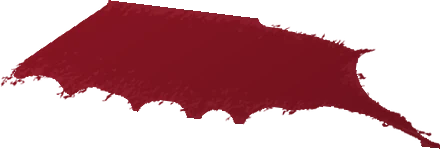
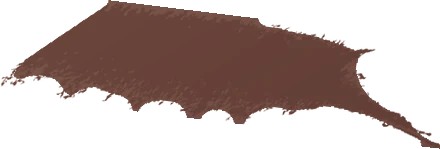
Menü tonu mat gül-kile çekildi; okunurluk artık ölçülüyor
Fransız kırmızısı cırtlak geliyordu. Doygunluk %69'dan %28'e indi, ton
14 dereceye ısıtıldı: sıcak ama hâlâ gül. Denenip bırakılanlar — 7 derece
mor-kahveye kaçıyor, 20 ve 26 derece kahveye dönüyor; nude pembe-bej bir
yer, kahve değil. Beş aday gerçek zemin üzerinde yan yana bakılarak
seçildi, sayıyla değil.

Bunu yaparken eski okunurluk ölçütümün yanlış olduğu çıktı: sRGB
değerlerinin ağırlıklı ortalamasını "bağıl parlaklık" sanıyordum. O formül
doygun kırmızıyı olduğundan çok daha açık gösteriyor, yani var olmayan bir
tavan koyuyordu. Yerine gerçek WCAG hesabı geldi — kanallar
doğrusallaştırılıp kontrast ORANI hesaplanıyor.

Ölçüt değişince gizli bir zayıflık ortaya çıktı: eski kırmızı panelde de
üç satır AA'yı geçmiyordu (3.32:1, 4.31:1, 4.23:1) ve menüdeki iki altın
vurgu da (#d9b9a0, #e8cf9a) sınırın altındaydı. İkisi de düzeltildi:
satır parlaklığı 0.72'den 0.90'a, altınlar #ecd8c4 ve #f2dea8'e alındı.
Panel açıldıysa vurgu da açılmalı.

Ölçüm artık tahmine yer bırakmıyor:
  - Menü satırlarının rengi sabit değil, o sayfanın zemin paletinden
    üretiliyor. Bu yüzden BÜTÜN sayfa paletleri deneniyor, yalnız galeri
    değil.
  - paintMenu iki satıra renk yazmıyor (Ana sayfa ve bulunduğun sayfa
    altın kalıyor); hangi satırın özel olduğu sayfaya göre değiştiği için
    iki altın da her kutuda denetleniyor.
  - En kötü hâl 4.62:1, hepsi geçiyor. firca.py geçmezse HATA verip
    duruyor.

Satır renk parametreleri (doygunluk, parlaklık, adım) artık tek kaynakta:
[…]

diff --git a/kabuk.js b/kabuk.js
@@ -73,15 +73,32 @@ function hsl(hex) {
   return [h, d === 0 ? 0 : d / (1 - Math.abs(2 * l - 1)), l];
 }
 
+/* Doygunluk ve parlaklık sayıları firca.css'ten geliyor (onu firca.py
+   yazıyor). Sebebi: aynı sayılar panelin okunurluk ölçümünde de
+   kullanılıyor. Burada elle tutulsalardı panelin tonu bir değiştiğinde
+   ölçüm artık gerçeği ölçmez olurdu — nitekim bir kez öyle oldu:
+   ölçüm 0.88 ile geçerken çalışan kod 0.72 kullanıyordu. */
+function satirAyari() {
+  const cs = getComputedStyle(document.documentElement);
+  const say = (ad, yedek) => {
+    const v = parseFloat(cs.getPropertyValue(ad));
+    return isNaN(v) ? yedek : v;
+  };
+  return { sat: say('--satir-doygunluk', 0.40),
+           lig: say('--satir-parlaklik', 0.90),
+           adim: say('--satir-adim', 0.015) };
+}
+
 function paintMenu(pal) {
+  const a = satirAyari();
   document.querySelectorAll('#menu .nav-item').forEach((el, i) => {
     if (el.classList.contains('ozel') || el.classList.contains('cikis')) return;
     if (!pal.length) { el.style.color = '#e9e9e4'; return; }
     const [h, sRaw] = hsl(pal[i % pal.length]);
-    const sat = Math.min(sRaw, 0.40);
-    const lig = 0.72 + ((i * 3) % 7) * 0.036;          /* satır satır ayrışsın */
+    const sat = Math.min(sRaw, a.sat);
+    const lig = a.lig + ((i * 3) % 7) * a.adim;        /* satır satır ayrışsın */
     el.style.color = 'hsl(' + h.toFixed(0) + ',' + (sat * 100).toFixed(0) + '%,' +
-                     (lig * 100).toFixed(0) + '%)';
+                     (lig * 100).toFixed(1) + '%)';
   });
 }
 

diff --git a/kabuk.css b/kabuk.css
@@ -203,7 +203,7 @@
 #menu a[aria-current="page"]::before { opacity: .9; }
 #menu a.ozel {
   font-size: clamp(17px, 1rem + .42vw, 22px);
-  color: #e8cf9a !important;
+  color: #f2dea8 !important;
   padding-block: 11px; margin-bottom: 2px;
 }
 #menu a.ozel::after {
@@ -213,7 +213,12 @@
 @media (hover: hover) {
   #menu a.ozel:hover::after { transform: translateX(4px); }
 }
-#menu a.cikis { color: #d9b9a0 !important; }
+/* Iki altin ton panele gore acildi. Olculdu: nude panelde #d9b9a0
+   3.67:1, #e8cf9a 4.45:1 veriyordu -- ikisi de WCAG AA'nin altinda.
+   (Eski kirmizi panelde de 4.10 ve ~4.4 idi, yani bu zayiflik yeni
+   degil; kaba bir parlaklik olcutu kullandigim icin gorunmuyordu.)
+   Simdi 4.89:1 ve 5.11:1. Panel aciildiysa vurgu da acilmali. */
+#menu a.cikis { color: #ecd8c4 !important; }
 #menu .sep { height: 18px; }
 #menu .grouplbl {
   font-size: var(--t-micro); letter-spacing: .14em; text-transform: uppercase;

diff --git a/firca.css b/firca.css
@@ -2,6 +2,7 @@
    bulunuyor, elle degistirilirse yazi altindaki opaklik garantisi
    bozulur. Kaynak: firca.py YERLESIM. */
 #boya { --darbe: 7; }   /* kabuk.js kac <i> uretecegini buradan okuyor */
+:root { --satir-doygunluk: 0.40; --satir-parlaklik: 0.90; --satir-adim: 0.015; }
 #boya i:nth-child(1) {
   left: -12.67%; top: -5.13%; width: 132.50%; height: 40.02%;
   background-image: url(assets/firca/panel-1.webp);

diff --git a/firca.py b/firca.py
@@ -45,6 +45,7 @@ Gercek yagliboya da boyledir: ortu verici bir katta firca izini gordugun
 sey saydamlik degil, kalinlik farkindan gelen degerdir. Boya inceldiginde
 saydamlasmiyor, aciliyor.
 """
+import colorsys
 import io
 import json
 import math
@@ -64,7 +65,22 @@ OLCUM = os.path.join(KOK, 'kaynak', 'firca')
 # Panelin gercek olcusu -- tarayicidan okundu, goz karari degil.
 EN, BOY = 600, 857
 TABAN = 0.92        # yazi altinda en dusuk opaklik
-ISIK_TAVAN = 0.30   # yazi altinda en yuksek bagil parlaklik (acik yazi okunsun)
+KONTRAST_TABAN = 4.5   # WCAG AA, normal boy yazi
+
+# Menu satir renkleri sabit degil: zemin paletinden uretiliyor.
+# Bu ucu kabuk.js/paintMenu ile BIREBIR ayni olmak zorunda.
+# Olculdu: 0.72'de satir00, satir05 ve satir07 WCAG AA'yi gecmiyordu
+# (3.32:1, 4.31:1, 4.23:1) -- eski kirmizi panelde de gecmiyorlardi, ben
+# kaba bir parlaklik olcutu kullandigim icin gormemistim. 0.88'de hepsi
+# geciyor, en kotu 4.92:1.
+# Menudeki iki vurgu murekkebi: paintMenu bu iki satira renk YAZMIYOR,
+# rengi CSS'ten geliyor. Hangi satirin ozel oldugu sayfaya gore
+# degistigi icin ikisi de HER kutuda denetleniyor.
+ALTINLAR = [(236, 216, 196),   # #ecd8c4  .cikis  ('Ana sayfa')
+            (242, 222, 168)]   # #f2dea8  .ozel   (bulundugun sayfa)
+SAT_TAVAN = 0.40
+LIG_TABAN = 0.90
+LIG_ADIM = 0.015
 
 SURE = 300          # bir darbenin supurme suresi (ms)
 ARALIK = 66         # darbeler arasi gecikme (ms)
@@ -100,10 +116,25 @@ YERLESIM = [
     ('karakter-1',   4,  29,  74,  -7, False),
 ]
 
-# Fransiz kirmizisi. Ton panel boyunca capraz iniyor: ust darbe ile alt
-# darbe ayni renkte olmasin, tuvalde de olmaz.
-FR = [(0.00, (163, 30, 44)), (0.28, (134, 21, 35)), (0.60, (103, 17, 28)),
-      (0.85, (78, 18, 26)), (1.00, (63, 22, 29))]
+# Mat kil gulu. Onceki hal doygun Fransiz kirmizisiydi ve cirtlak
+# geliyordu; doygunluk %69'dan %28'e indi, ton biraz isindi.
+#
+# Daha da nude'a gitmenin bir tavani var ve olculdu: baglayici kisit
+# panelin EN ACIK noktasi, cunku menu satirlari ACIK murekkeple yaziliyor.
+# Daha acik iki aday (tarcin gulu, nude gul) satir parlakligi 0.92 olsa
+# bile WCAG AA'yi (4.5:1) gecemedi. Bunun otesi ancak yaziyi KOYU murekkebe
+# cevirmekle olur -- o da menunun butun karakterini degistirir, ayri bir
+# karar.
+#
+# Ton ayrica DUZLESTIRILDI: tepe parlakligi kontrasti belirliyor, ortalama
+# ise gozun gordugu tonu. Tepeyi koyultmak ayni kontrastta daha nude bir
+# ortalama veriyor.
+# Ton 14 derece: sicak ama hala gul. Denenip birakilanlar --  7 derece
+# mor-kahveye kaciyor, 20 ve 26 derece kahveye doniyor; nude pembe-bej
+# bir yer, kahve degil. Bes aday zemin uzerinde yan yana bakilarak
+# secildi, sayiyla degil.
+FR = [(0.00, (112, 74, 63)), (0.28, (106, 69, 59)), (0.60, (96, 60, 52)),
+      (0.85, (84, 51, 46)), (1.00, (72, 44, 41))]
 
 EGRI_LO, EGRI_HI = 14, 168   # ham yogunluk egrisi: pus sifira, cekirdek opak
 
@@ -350,6 +381,53 @@ def isik(r, g, b):
     return (0.2126 * r + 0.7152 * g + 0.0722 * b) / 255.0
 
 
+def _dogrusal(k):
+    k = k / 255.0
+    return k / 12.92 if k <= 0.03928 else ((k + 0.055) / 1.055) ** 2.4
+
+
+def parlaklik(r, g, b):
+    """WCAG bagil parlaklik. Dogrusallastirma sart: sRGB degerlerinin
+    agirlikli ortalamasi doygun renklerde iki kat yanilabiliyor."""
+    return (0.2126 * _dogrusal(r) + 0.7152 * _dogrusal(g) + 0.0722 * _dogrusal(b))
+
+
+def kontrast(a, b):
+    la, lb = parlaklik(*a), parlaklik(*b)
+    if la < lb:
+        la, lb = lb, la
+    return (la + 0.05) / (lb + 0.05)
+
+
+def satir_renkleri(palet):
+    """kabuk.js/paintMenu'nun urettigi renkler. 14 nav satiri."""
+    renkler = []
+    for i in range(len(SATIR_Y)):
+        hx = palet[i % len(palet)]
+        n = int(hx[1:], 16)
+        r, g, b = (n >> 16) & 255, (n >> 8) & 255, n & 255
+        h, l, sat = colorsys.rgb_to_hls(r / 255.0, g / 255.0, b / 255.0)
+        sat = min(sat, SAT_TAVAN)
+        lig = LIG_TABAN + ((i * 3) % 7) * LIG_ADIM
+        rr, gg, bb = colorsys.hls_to_rgb(h, lig, sat)
+        renkler.append((int(rr * 255), int(gg * 255), int(bb * 255)))
+    return renkler
+
+
+def tum_paletler():
+    """Butun sayfa zeminlerinin paletleri.
+
+    Menu her sayfada O SAYFANIN paletinden renk aliyor; yalnizca galeriyi
+    olcmek eksik olurdu. Parlaklik LIG_TABAN'dan geldigi icin sayfalar
+    arasi fark kucuk ama garantiyi tahmine birakmanin anlami yok.
+    """
+    yol = os.path.join(KOK, 'zeminler.json')
+    if not os.path.exists(yol):
+        return {'yedek': ['#e4cecd'] * 9}
+    d = json.load(io.open(yol, encoding='utf-8'))
+    return {k: (v.get('palette') or ['#e4cecd'] * 9) for k, v in d.items()}
+
+
 def ic_kontrol(panel, pay=45):
     """Panelin ICINDE delik olmamali.
 
@@ -378,9 +456,21 @@ def ic_kontrol(panel, pay=45):
 
 def olc(panel):
     px = panel.load()
+    paletler = tum_paletler()
+    # Her kutu icin her sayfanin satir rengi denenip EN KOTUSU aliniyor.
+    tum_satirlar = {k: satir_renkleri(v) for k, v in paletler.items()}
     rapor = []
-    for ad, x, y, w, h in YAZI_KUTULARI:
-        dusuk, altta, n, en_isik = 255, 0, 0, 0.0
+    for i, (ad, x, y, w, h) in enumerate(YAZI_KUTULARI):
+        # Satirin kendi rengi. Ama menudeki iki satira paintMenu renk
+        # YAZMIYOR: 'Ana sayfa' ve bulundugun sayfa altin kaliyor
+        # (#d9b9a0). Hangi satirin ozel oldugu sayfaya gore degistigi
+        # icin ALTIN her kutuda ayrica denetleniyor -- menudeki en sonuk
+        # murekkep o, gecerse otekiler de geciyor.
+        if ad.startswith('satir'):
+            adaylar = [s[i] for s in tum_satirlar.values()] + ALTINLAR
+        else:
+            adaylar = [(233, 233, 228)]
+        dusuk, altta, n, en_kotu = 255, 0, 0, 99.0
         for yy in range(y + 2, y + h - 2, 2):
             for xx in range(x + 2, x + w - 2, 2):
                 if not (0 <= xx < EN and 0 <= yy < BOY):
@@ -389,10 +479,12 @@ def olc(panel):
                 dusuk = min(dusuk, a)
                 if a < TABAN * 255:
                     altta += 1
-                en_isik = max(en_isik, isik(r, g, b))
+                for yz in adaylar:
+                    en_kotu = min(en_kotu, kontrast(yz, (r, g, b)))
                 n += 1
         rapor.append({'ad': ad, 'dusuk': dusuk / 255.0,
-                      'delik': altta / max(1, n), 'isik': en_isik})
+                      'delik': altta / max(1, n), 'kontrast': en_kotu,
+                      'yazi': adaylar[0]})
     return rapor
 
 
@@ -447,6 +539,12 @@ def css_yaz(satirlar):
          '   bozulur. Kaynak: firca.py YERLESIM. */']
     p.append('#boya { --darbe: %d; }   /* kabuk.js kac <i> uretecegini buradan okuyor */'
              % len(satirlar))
+    # Satir renk parametreleri de buradan cikiyor: ayni sayilar hem
+    # olcumde (firca.py) hem calisan kodda (kabuk.js/paintMenu) gecerli
+    # olmak zorunda. Iki yerde elle tutulsaydi ilk degisiklikte ayrisir
+    # ve olcum artik gercegi olcmez olurdu.
+    p.append(':root { --satir-doygunluk: %.2f; --satir-parlaklik: %.2f;'
+             ' --satir-adim: %.3f; }' % (SAT_TAVAN, LIG_TABAN, LIG_ADIM))
     # Konum ve gorsel her zaman gecerli; ANIMASYON yalnizca menu acikken
     # tanimli. Yoksa animasyon sayfa yuklenirken kosuyor ve menu acildiginda
     # coktan bitmis oluyor -- olculdu: acilistan 80 ms sonra darbe %99
@@ -483,13 +581,15 @@ def main():
     panel, parcalar = kur(darbeler)
     rapor = olc(panel)
 
-    print('\n%-14s %9s %8s %8s' % ('yazi kutusu', 'en dusuk', 'delik', 'en isik'))
+    print('\n%-14s %9s %8s %10s  %s'
+          % ('yazi kutusu', 'en dusuk', 'delik', 'kontrast', 'yazi rengi'))
     kalan = 0
     for r in rapor:
-        tamam = r['dusuk'] >= TABAN and r['isik'] <= ISIK_TAVAN
+        tamam = r['dusuk'] >= TABAN and r['kontrast'] >= KONTRAST_TABAN
         kalan += 0 if tamam else 1
-        print('%-14s %8.0f%% %7.2f%% %8.2f   %s'
-              % (r['ad'], r['dusuk'] * 100, r['delik'] * 100, r['isik'],
+        print('%-14s %8.0f%% %7.2f%% %8.2f:1  #%02x%02x%02x  %s'
+              % (r['ad'], r['dusuk'] * 100, r['delik'] * 100, r['kontrast'],
+                 r['yazi'][0], r['yazi'][1], r['yazi'][2],
                  'tamam' if tamam else 'KALDI'))
 
     ic_oran, ic_kutu = ic_kontrol(panel)
